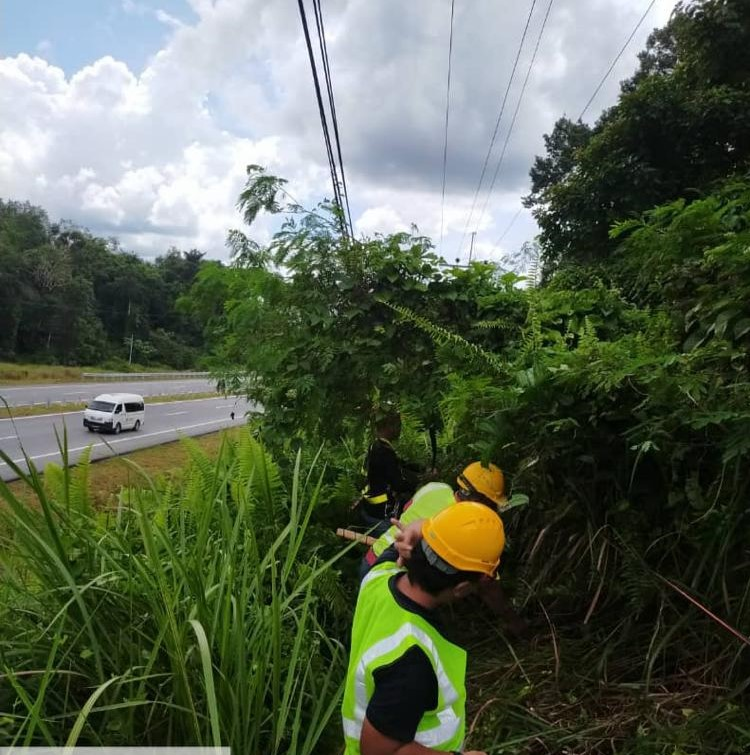
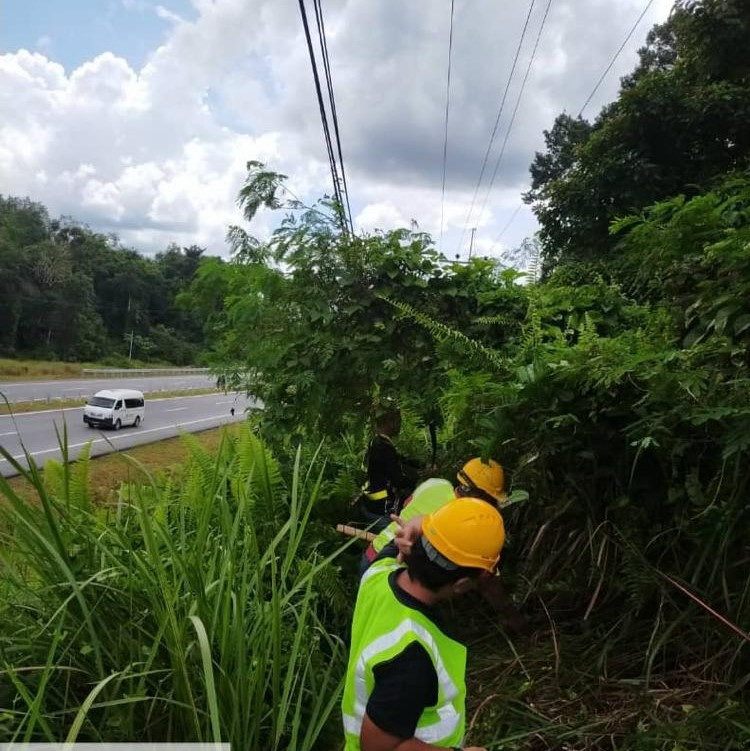
fix carousel pic size

diff --git a/service.html b/service.html
@@ -5,7 +5,7 @@
   <meta charset="utf-8">
   <meta content="width=device-width, initial-scale=1.0" name="viewport">
 
-  <title>Product</title>
+  <title>Telecommunication</title>
   <meta content="" name="description">
   <meta content="" name="keywords">
 

diff --git a/service1.html b/service1.html
@@ -5,7 +5,7 @@
   <meta charset="utf-8">
   <meta content="width=device-width, initial-scale=1.0" name="viewport">
 
-  <title>Product</title>
+  <title>Building Works</title>
   <meta content="" name="description">
   <meta content="" name="keywords">
 

diff --git a/contact.html b/contact.html
@@ -5,7 +5,7 @@
   <meta charset="utf-8">
   <meta content="width=device-width, initial-scale=1.0" name="viewport">
 
-  <title>Registrations</title>
+  <title>contact</title>
   <meta content="" name="description">
   <meta content="" name="keywords">
 

diff --git a/service2.html b/service2.html
@@ -5,7 +5,7 @@
   <meta charset="utf-8">
   <meta content="width=device-width, initial-scale=1.0" name="viewport">
 
-  <title>Product</title>
+  <title>Civil Works</title>
   <meta content="" name="description">
   <meta content="" name="keywords">
 

diff --git a/product.html b/product.html
@@ -5,7 +5,7 @@
   <meta charset="utf-8">
   <meta content="width=device-width, initial-scale=1.0" name="viewport">
 
-  <title>Product</title>
+  <title>Multiseat</title>
   <meta content="" name="description">
   <meta content="" name="keywords">
 

diff --git a/product2.html b/product2.html
@@ -5,7 +5,7 @@
   <meta charset="utf-8">
   <meta content="width=device-width, initial-scale=1.0" name="viewport">
 
-  <title>Product</title>
+  <title>Server</title>
   <meta content="" name="description">
   <meta content="" name="keywords">
 

diff --git a/product3.html b/product3.html
@@ -5,7 +5,7 @@
   <meta charset="utf-8">
   <meta content="width=device-width, initial-scale=1.0" name="viewport">
 
-  <title>Product</title>
+  <title>Cloud</title>
   <meta content="" name="description">
   <meta content="" name="keywords">
 

diff --git a/service3.html b/service3.html
@@ -5,7 +5,7 @@
   <meta charset="utf-8">
   <meta content="width=device-width, initial-scale=1.0" name="viewport">
 
-  <title>Product</title>
+  <title>ICT</title>
   <meta content="" name="description">
   <meta content="" name="keywords">
 
